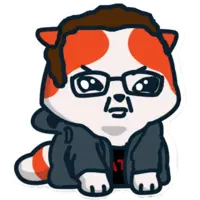
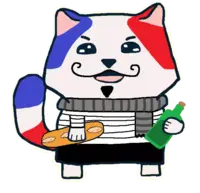
change deux' assets

diff --git a/files/assets/js/chat.js b/files/assets/js/chat.js
@@ -20,17 +20,17 @@ function flash(){
 	if (notifs >= 1 && !focused){
 		title.innerHTML = `[+${notifs}] Chat`;
 		if (alert) {
-			icon.href = escapeHTML(`/assets/images/${site_name}/alert.webp?v=2`)
+			icon.href = escapeHTML(`/assets/images/${site_name}/alert.webp?v=3`)
 			alert=false;
 		}
 		else {
-			icon.href = escapeHTML(`/assets/images/${site_name}/icon.webp?v=1015`)
+			icon.href = escapeHTML(`/assets/images/${site_name}/icon.webp?v=3000`)
 			alert=true;
 		}
 		setTimeout(flash, 500)
 	}
 	else {
-		icon.href = escapeHTML(`/assets/images/${site_name}/icon.webp?v=1015`)
+		icon.href = escapeHTML(`/assets/images/${site_name}/icon.webp?v=3000`)
 		notifs = 0
 		title.innerHTML = 'Chat';
 	}

diff --git a/files/templates/util/assetcache.html b/files/templates/util/assetcache.html
@@ -33,12 +33,13 @@ set CACHE_VER = {
 -%}
 {%-
 set CACHE_VER_SITEIMG = {
-	'rDrama': 2000,
-	'FunOnly': 2000,
-	'PCM': 2003,
-	'Cringetopia': 2000,
-	'WPD': 2000,
-	'LGBDropTheT': 2010,
+	'rDrama': 3000,
+	'FunOnly': 3000,
+	'PCM': 3000,
+	'Cringetopia': 3000,
+	'WPD': 3000,
+	'LGBDropTheT': 3000,
+	'Deuxrama': 3000,
 }
 -%}
 

diff --git a/files/templates/authforms.html b/files/templates/authforms.html
@@ -118,7 +118,7 @@
 
 										<div class="splash-overlay"></div>
 
-										<img alt="cover" loading="lazy" class="splash-img" src="/i/{{SITE_NAME}}/cover.webp?v=2000"></img>
+										<img alt="cover" loading="lazy" class="splash-img" src="/i/{{SITE_NAME}}/cover.webp?v=2001"></img>
 								</div>
 
 						</div>

diff --git a/files/templates/sign_up_failed_ref.html b/files/templates/sign_up_failed_ref.html
@@ -85,7 +85,7 @@
 
 										<div class="splash-overlay"></div>
 
-										<img alt="cover" loading="lazy" class="splash-img" src="/i/{{SITE_NAME}}/cover.webp?v=2000"></img>
+										<img alt="cover" loading="lazy" class="splash-img" src="/i/{{SITE_NAME}}/cover.webp?v=2001"></img>
 								</div>
 
 						</div>

diff --git a/files/templates/login.html b/files/templates/login.html
@@ -110,7 +110,7 @@
 
 								<div class="splash-overlay"></div>
 
-								<img alt="cover" loading="lazy" class="splash-img" src="/i/{{SITE_NAME}}/cover.webp?v=2000"></img>
+								<img alt="cover" loading="lazy" class="splash-img" src="/i/{{SITE_NAME}}/cover.webp?v=2001"></img>
 						</div>
 
 				</div>

diff --git a/files/templates/sign_up.html b/files/templates/sign_up.html
@@ -141,7 +141,7 @@
 
 								<div class="splash-overlay"></div>
 
-								<img alt="cover" loading="lazy" class="splash-img" src="/i/{{SITE_NAME}}/cover.webp?v=2000"></img>
+								<img alt="cover" loading="lazy" class="splash-img" src="/i/{{SITE_NAME}}/cover.webp?v=2001"></img>
 						</div>
 
 				</div>

diff --git a/files/templates/chat.html b/files/templates/chat.html
@@ -195,7 +195,7 @@
 <input id="slurreplacer" type="hidden" value="{{v.slurreplacer}}">
 
 <script src="{{asset('js/bootstrap.js')}}"></script>
-<script src="/chat.js?v=23"></script>
+<script src="/chat.js?v=24"></script>
 
 {% include "emoji_modal.html" %}
 {% include "expanded_image_modal.html" %}

diff --git a/files/templates/login_2fa.html b/files/templates/login_2fa.html
@@ -96,7 +96,7 @@
 
 						<div class="splash-overlay"></div>
 
-						<img alt="cover" loading="lazy" class="splash-img" src="/i/{{SITE_NAME}}/cover.webp?v=2000"></img>
+						<img alt="cover" loading="lazy" class="splash-img" src="/i/{{SITE_NAME}}/cover.webp?v=2001"></img>
 				</div>
 
 		</div>

diff --git a/files/templates/sidebar_PCM.html b/files/templates/sidebar_PCM.html
@@ -42,7 +42,7 @@
 	{% if sub %}
 		{% set image=sub.sidebar_url %}
 	{% else %}
-		{% set image='/i/' + SITE_NAME + '/sidebar.webp?v=2020' %}
+		{% set image='/i/' + SITE_NAME + '/sidebar.webp?v=3000' %}
 	{% endif %}
 	
 	<a href="{{image}}">

diff --git a/files/templates/sidebar_Cringetopia.html b/files/templates/sidebar_Cringetopia.html
@@ -3,7 +3,7 @@
 	{% if sub %}
 		{% set image=sub.sidebar_url %}
 	{% else %}
-		{% set image='/i/' + SITE_NAME + '/sidebar.webp?v=2000' %}
+		{% set image='/i/' + SITE_NAME + '/sidebar.webp?v=3000' %}
 	{% endif %}
 
 	<a href="{{image}}">

diff --git a/files/templates/sidebar_WPD.html b/files/templates/sidebar_WPD.html
@@ -3,7 +3,7 @@
 	{% if sub %}
 		{% set image=sub.sidebar_url %}
 	{% else %}
-		{% set image='/i/' + SITE_NAME + '/sidebar.webp?v=2000' %}
+		{% set image='/i/' + SITE_NAME + '/sidebar.webp?v=3000' %}
 	{% endif %}
 
 	<a href="{{image}}">

diff --git a/files/classes/submission.py b/files/classes/submission.py
@@ -205,13 +205,13 @@ class Submission(Base):
 	@lazy
 	def thumb_url(self):
 		if self.over_18: return f"{SITE_FULL}/assets/images/nsfw.webp?v=1"
-		elif not self.url: return f"{SITE_FULL}/assets/images/{SITE_NAME}/default_text.webp?v=1"
+		elif not self.url: return f"{SITE_FULL}/assets/images/{SITE_NAME}/default_text.webp?v=2"
 		elif self.thumburl: 
 			if self.thumburl.startswith('/'): return SITE_FULL + self.thumburl
 			return self.thumburl
 		elif self.is_youtube or self.is_video: return f"{SITE_FULL}/assets/images/default_thumb_video.webp?v=1"
 		elif self.is_audio: return f"{SITE_FULL}/assets/images/default_thumb_audio.webp?v=1"
-		elif self.domain == SITE: return f"{SITE_FULL}/assets/images/{SITE_NAME}/site_preview.webp?v=1" 
+		elif self.domain == SITE: return f"{SITE_FULL}/assets/images/{SITE_NAME}/site_preview.webp?v=3000" 
 		else: return f"{SITE_FULL}/assets/images/default_thumb_link.webp?v=1"
 
 	@property
